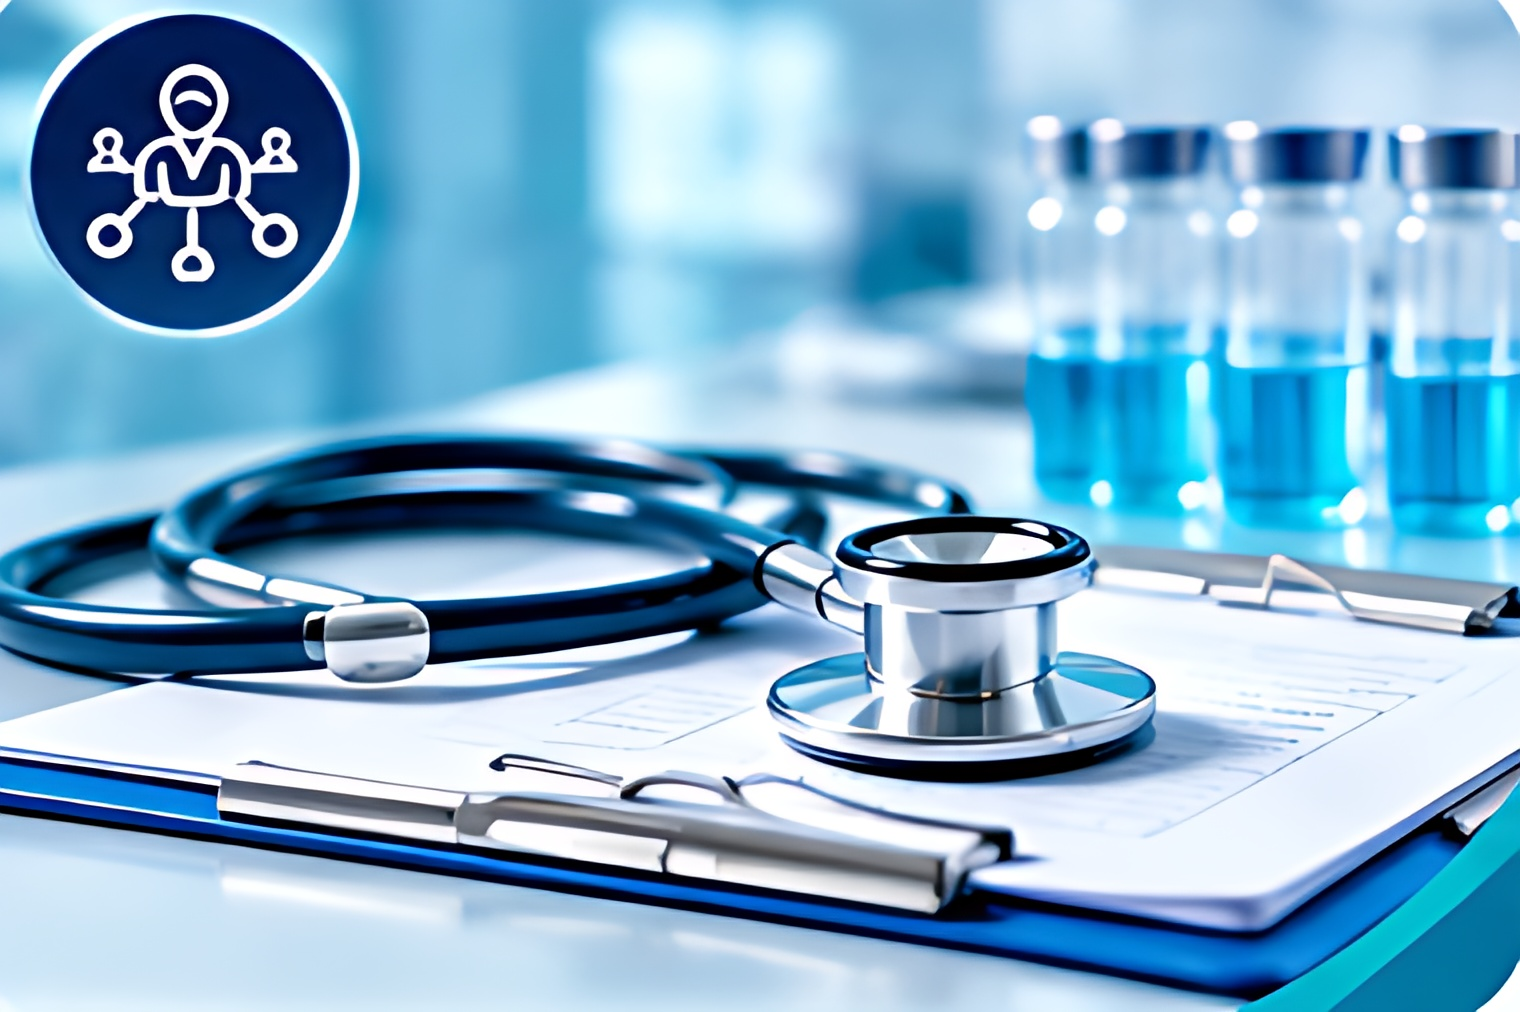
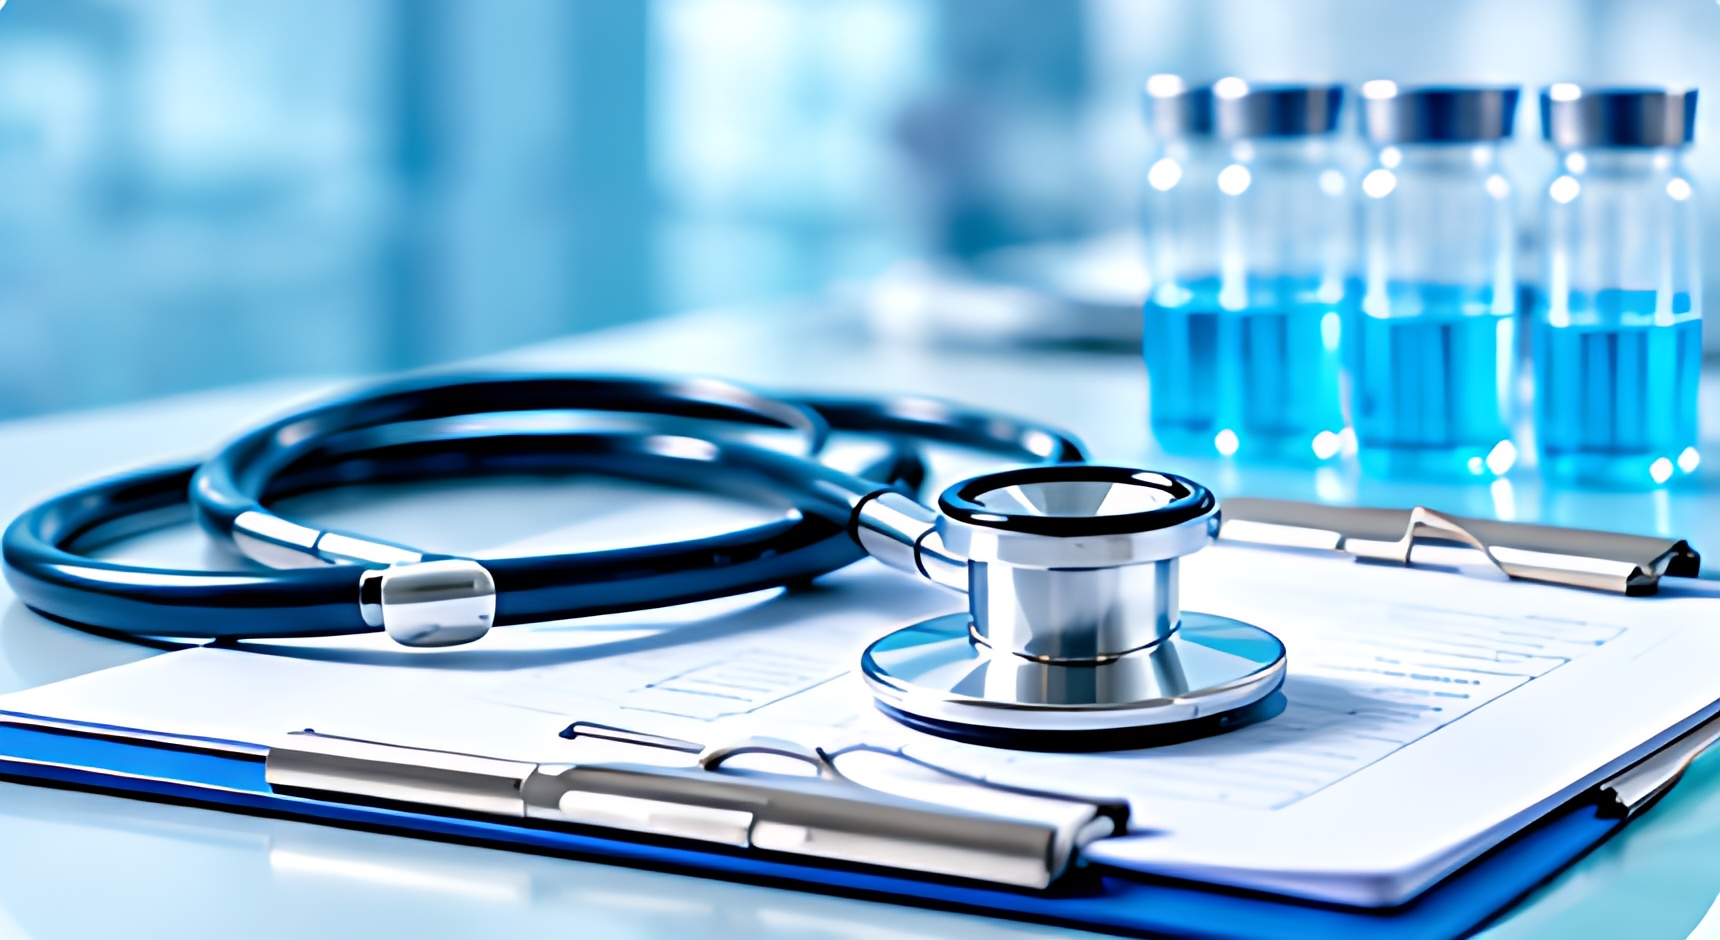
feat: implement IndustrySegments component with associated imagery assets

diff --git a/website/src/app/components/industries/IndustrySegments.tsx b/website/src/app/components/industries/IndustrySegments.tsx
@@ -10,12 +10,19 @@ import {
     Handshake,
 } from "lucide-react";
 
+import industry1 from "../../../../public/industries/industry1.jpg";
+import industry2 from "../../../../public/industries/industry2.jpg";
+import industry3 from "../../../../public/industries/industry3.jpg";
+import industry4 from "../../../../public/industries/industry4.jpg";
+import industry5 from "../../../../public/industries/industry5.jpg";
+import industry6 from "../../../../public/industries/industry6.jpg";
+
 const industries = [
     {
         title: "Hospitals & Healthcare Institutions",
         description:
             "Supporting hospitals, healthcare institutions and organized care networks with dependable pharmaceutical product requirements.",
-        image: "/industries/industry1.jpg",
+        image: industry1,
         icon: Building2,
         href: "/industries/hospitals-healthcare",
     },
@@ -23,7 +30,7 @@ const industries = [
         title: "Pharmacy & Retail Networks",
         description:
             "Providing pharmaceutical products for pharmacies, organized retail networks and businesses serving everyday healthcare needs.",
-        image: "/industries/industry2.jpg",
+        image: industry2,
         icon: Store,
         href: "/industries/pharmacy-retail",
     },
@@ -31,7 +38,7 @@ const industries = [
         title: "Pharmaceutical Distributors",
         description:
             "Supporting distributors, stockists and regional supply networks with reliable products and consistent business coordination.",
-        image: "/industries/industry3.jpg",
+        image: industry3,
         icon: Truck,
         href: "/industries/distributors",
     },
@@ -39,7 +46,7 @@ const industries = [
         title: "Diagnostic & Clinical Networks",
         description:
             "Supporting diagnostic networks, laboratories and clinical testing centers with reliable healthcare solutions.",
-        image: "/industries/industry4.jpg",
+        image: industry4,
         icon: Stethoscope,
         href: "/industries/diagnostic-clinical",
     },
@@ -47,7 +54,7 @@ const industries = [
         title: "Wellness & Nutrition Businesses",
         description:
             "Supporting wellness and nutrition-focused businesses with nutraceutical and health-oriented product solutions.",
-        image: "/industries/industry5.jpg",
+        image: industry5,
         icon: HeartPulse,
         href: "/industries/wellness-nutrition",
     },
@@ -55,7 +62,7 @@ const industries = [
         title: "Healthcare Brand Owners",
         description:
             "Working with healthcare businesses that need dependable pharmaceutical manufacturing and product supply partnerships.",
-        image: "/industries/industry6.jpg",
+        image: industry6,
         icon: Handshake,
         href: "/industries/healthcare-brands",
     },
@@ -108,15 +115,13 @@ export default function IndustrySegments() {
                                 <div className="absolute top-0 left-0 z-10 h-[3px] w-0 bg-[#0F766E] transition-all duration-300 group-hover:w-full" />
 
                                 <div className="relative h-48 overflow-hidden bg-slate-50">
-                                    <div className="absolute inset-4 overflow-hidden rounded-lg">
-                                        <Image
-                                            src={industry.image}
-                                            alt={industry.title}
-                                            fill
-                                            className="object-contain transition-all duration-500 group-hover:scale-105"
-                                            sizes="(max-width: 768px) 100vw, (max-width: 1024px) 50vw, 33vw"
-                                        />
-                                    </div>
+                                    <Image
+                                        src={industry.image}
+                                        alt={industry.title}
+                                        fill
+                                        className="object-cover transition-all duration-500 group-hover:scale-105"
+                                        sizes="(max-width: 768px) 100vw, (max-width: 1024px) 50vw, 33vw"
+                                    />
 
                                     <div className="absolute inset-0 bg-gradient-to-t from-slate-950/20 via-transparent to-transparent pointer-events-none" />
 
